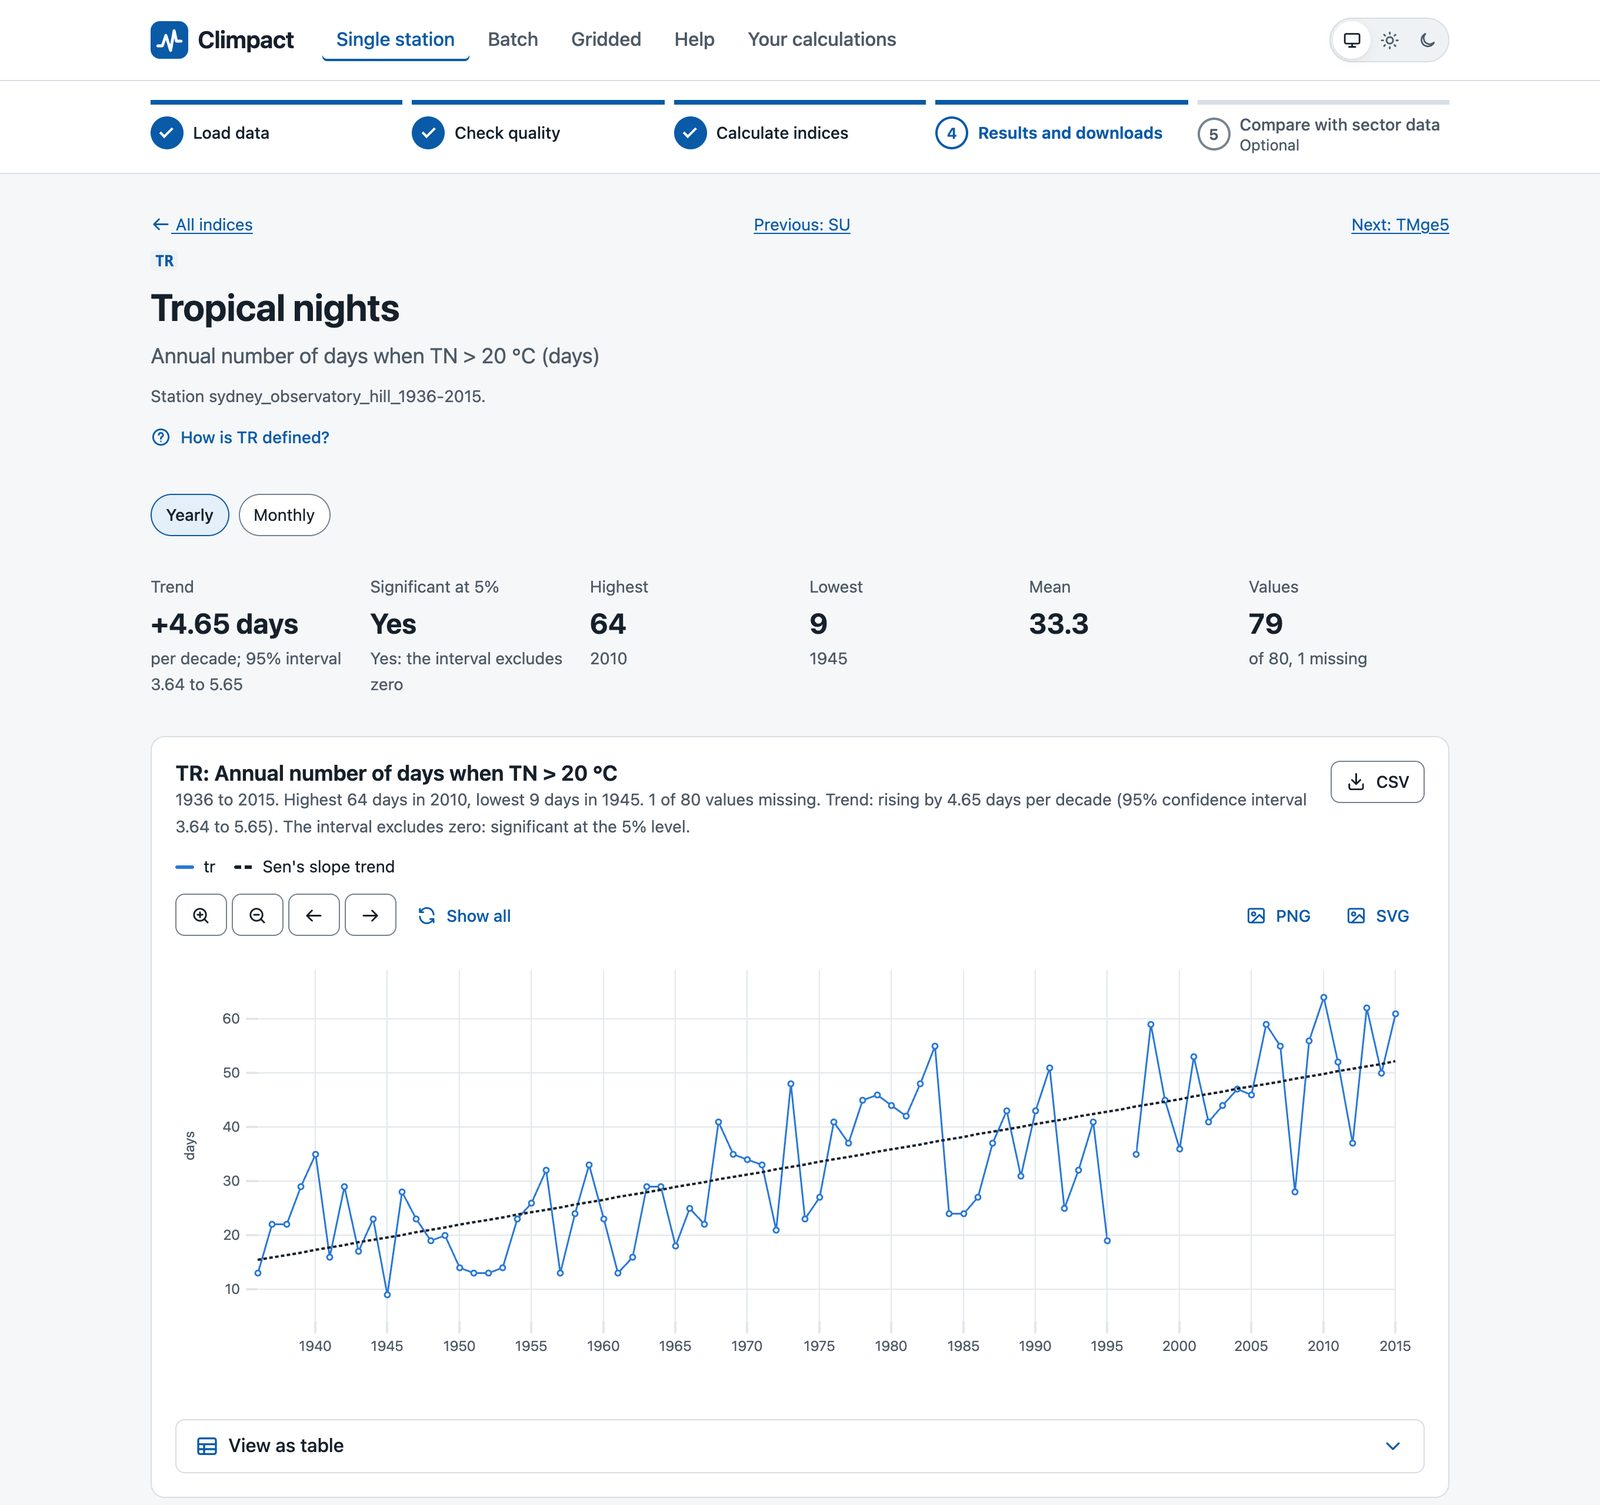
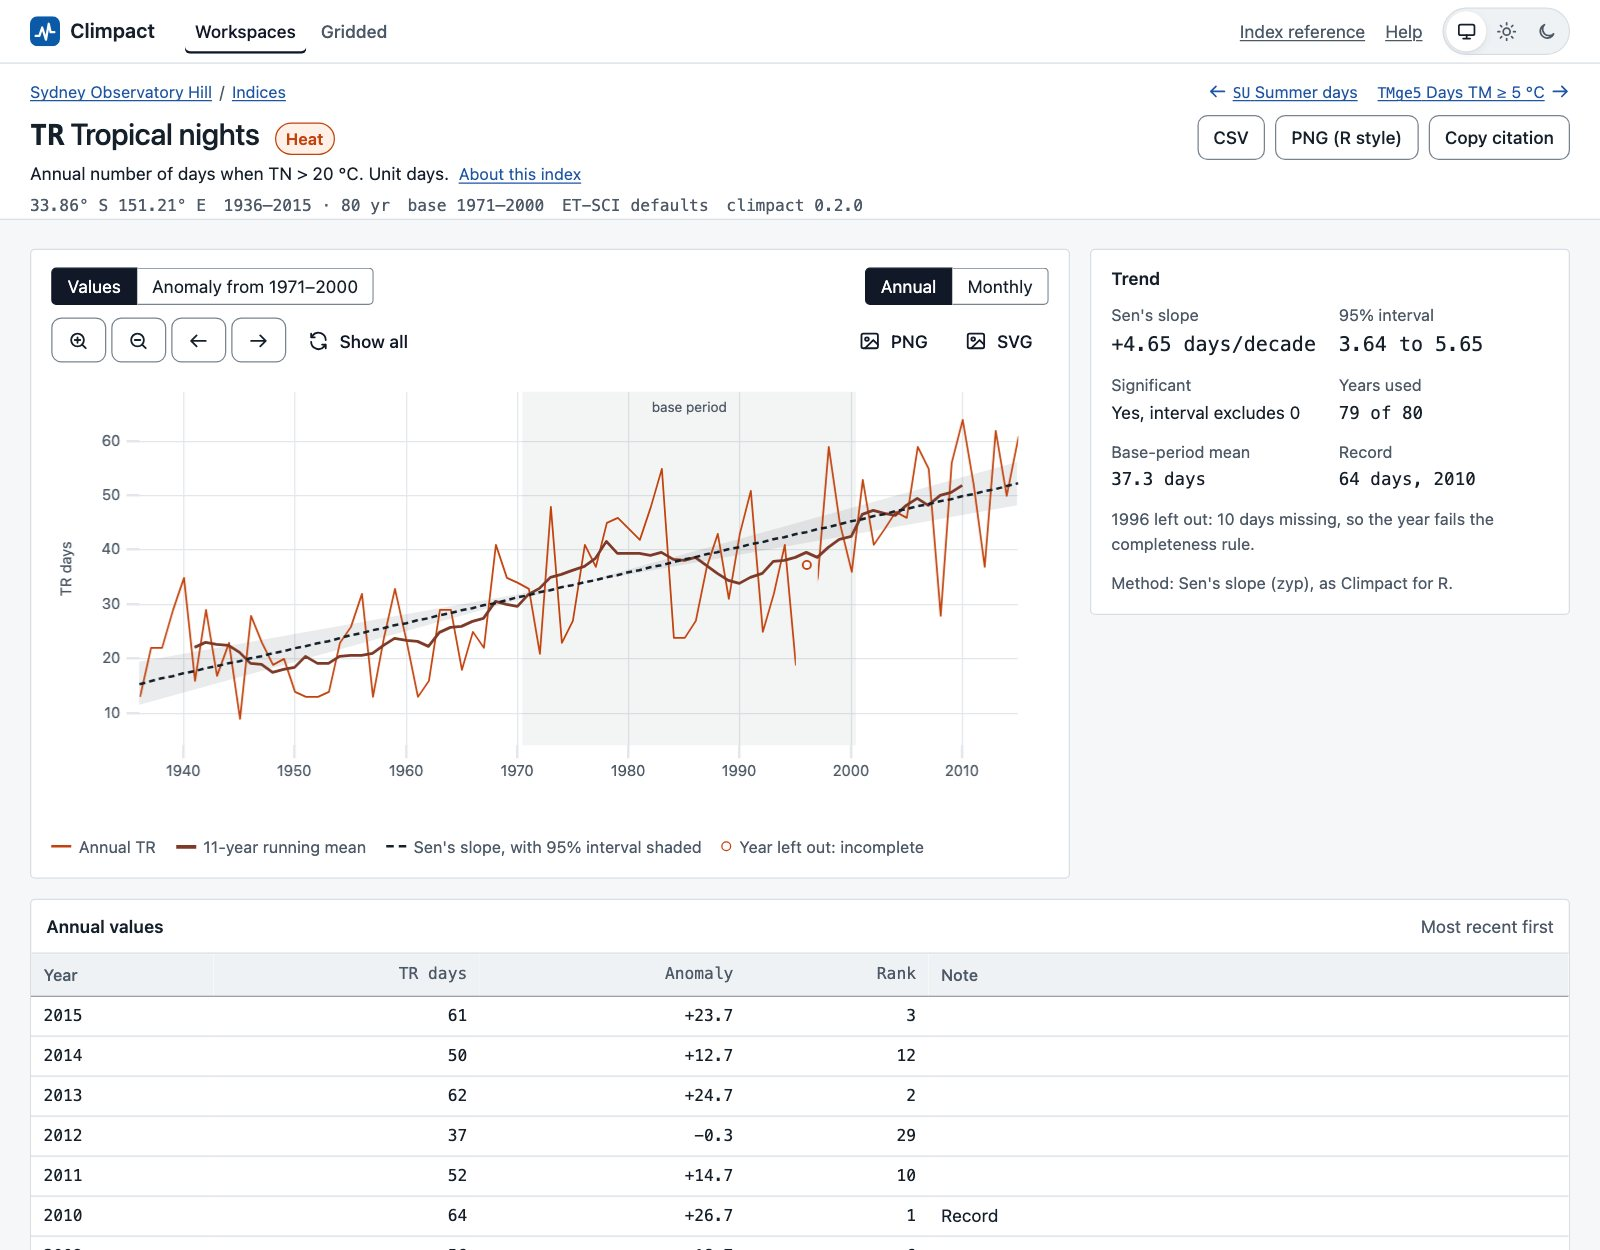
README: describe the 0.2 web app and replace the screenshots (#362)
The README described the 0.1 app (guided steps, "Try with sample data") with
screenshots of pages the redesign replaced. It now describes workspaces, Add
stations, Quality, Indices, comparing stations and the gridded map, with seven
new screenshots taken from a local 0.2.0 run: the sample station, a workspace
of four real Australian stations from the parity suite (Sydney, Alice Springs,
Darwin, Perth) and the sample grid.

The gridded parity figure ("3,006 of 3,006") matched nothing the parity
suite reports; it is now 1,024 of 1,024, the thresholds and index netCDF
variables of the summary. climpact-web's README says workspaces stay until
deleted locally and expire when hosted, and names CLIMPACT_WEB_PUBLIC_URL.

diff --git a/README.md b/README.md
@@ -14,7 +14,7 @@
 
 [**Try it at climpact.app**](https://climpact.app) · [Install](#installing) · [Command line](#command-line) · [Technical notes](TECHNICAL.md) · [Changelog](CHANGELOG.md)
 
-<img src="docs/images/results.jpg" alt="The Climpact results page: significant trends for Sydney Observatory Hill, each with a sparkline" width="860">
+<img src="docs/images/workspace.jpg" alt="A workspace of four Australian stations: each station's quality verdict and number of significant trends, and a grid of their trends per decade for eleven indices, coloured where the trend is significant" width="860">
 
 </div>
 
@@ -27,36 +27,43 @@ Climpact work, and adds a modern web app and a scriptable command line.
 ## Highlights
 
 - **The same results as Climpact for R.** Every output file of 15 reference stations is
-  text-identical to R's (1,791 of 1,791), and every variable of the gridded netCDF outputs is
-  bit-identical (3,006 of 3,006), checked on every pull request. See
-  [Parity testing](TECHNICAL.md#parity-testing).
+  text-identical to R's (1,791 of 1,791), and every variable of R's gridded thresholds and
+  index netCDF files is bit-identical on eight reference grids (1,024 of 1,024), checked on
+  every pull request. See [Parity testing](TECHNICAL.md#parity-testing).
 - **All the indices.** 80 ET-SCI indices per station, including Tx90/Tn90 and EHF heatwaves,
   SPI and SPEI, with quality control, base-period thresholds, Sen's-slope trends and sector
   correlation.
-- **A guided web app.** Load a file, review the quality checks on interactive charts, then
-  calculate and explore every index, with help next to each field. It runs offline on your
-  own computer, or hosted for a team.
+- **A workspace for your stations.** Drop one station file or a whole network, check the
+  quality, read every index's trend, and compare the trends across stations. Settings
+  belong to the workspace, so a change recalculates every station at once. It runs offline
+  on your own computer, or hosted.
 - **Fast and scriptable.** An 80-year station takes about 5 seconds. Batches run one station
   per CPU core, and gridded netCDF data are processed cell by cell in bounded memory.
 - **Files that drop into existing workflows.** CSV files in Climpact R's exact layout, R-style
-  plots, a zip in R's folder structure, and a PDF report for each station.
+  plots, a zip in R's folder structure, a PDF report for each station, all-station CSVs of
+  the indices and trends, and a record of what each result was made from.
 - **Accessible.** Built to WCAG 2.1 AA and tested automatically on every page, with light and dark themes and layouts that
   work on a phone.
 
 ## The web app
 
-Use the hosted app at **[climpact.app](https://climpact.app)** (single stations and batches),
-or run it on your own computer with `climpact-web`, which also processes gridded data and
-needs no internet connection. Each step shows its results before you move on.
+Use the hosted app at **[climpact.app](https://climpact.app)**, or run it on your own computer
+with `climpact-web`, which also processes gridded data and needs no internet connection.
+A workspace holds your stations and their settings; each station has its Quality, Indices
+and Files. Save a workspace to a file to keep it or open it on another computer.
 
 <table>
   <tr>
-    <td width="50%"><img src="docs/images/quality-checks.jpg" alt="Quality checks: flagged values circled on the daily series"><br><sub><b>Check quality.</b> Outliers, jumps, flat runs, impossible values and missing data, flagged on the chart and in tables. Your data is never changed.</sub></td>
-    <td width="50%"><img src="docs/images/index-page.jpg" alt="The page of one index: trend, chart and summary statistics"><br><sub><b>Explore every index.</b> Trend per decade with its 95% interval, an interactive chart, anomalies, seasonal trends and downloads.</sub></td>
+    <td width="50%"><img src="docs/images/add-stations.jpg" alt="Add stations: four station files and a metadata file read into a review table of names, coordinates, periods and missing data"><br><sub><b>Add stations.</b> One file or a whole network, with a metadata file or a zip. Check the names and coordinates in a table before anything runs.</sub></td>
+    <td width="50%"><img src="docs/images/quality.jpg" alt="Quality for Sydney Observatory Hill: the verdict Usable, the coverage of each variable by year, and the checks listed with the one selected shown on a chart"><br><sub><b>Check quality.</b> A verdict (Ready, Usable, Fix first), coverage by year, and each check's flagged values on a chart and in a table. Your data is never changed.</sub></td>
   </tr>
   <tr>
-    <td width="50%"><img src="docs/images/gridded-map.jpg" alt="Gridded results: a map of an index and the time series of one cell"><br><sub><b>Gridded data.</b> One netCDF file per index, a map of any index and year, and the time series of any cell.</sub></td>
-    <td width="50%"><img src="docs/images/dark-theme.jpg" alt="An index page in the dark theme"><br><sub><b>Light and dark themes,</b> keyboard-navigable charts with text summaries and table views.</sub></td>
+    <td width="50%"><img src="docs/images/indices.jpg" alt="Indices for Sydney Observatory Hill: 80 indices in a table sorted by the size of their trend, with themes on the left and the selected index's chart on the right"><br><sub><b>Every index at a glance.</b> 80 indices with their trend per decade, 95% interval and a sparkline, filtered by theme, with the selected one beside the table.</sub></td>
+    <td width="50%"><img src="docs/images/index-page.jpg" alt="The TR Tropical nights page: annual values from 1936 to 2015 with the running mean and Sen's slope, the trend's statistics and the annual values table"><br><sub><b>Explore an index.</b> An interactive chart with the base period, running mean and Sen's slope, anomalies, monthly values, the trend's statistics and downloads.</sub></td>
+  </tr>
+  <tr>
+    <td width="50%"><img src="docs/images/overlay-dark.jpg" alt="TXx Hottest day at each of the four stations on one chart, in the dark theme"><br><sub><b>Compare stations.</b> A trend grid across the workspace, and one index's series at every station. Light and dark themes throughout.</sub></td>
+    <td width="50%"><img src="docs/images/gridded-map.jpg" alt="A gridded run's map of TXx in 2010 on the sample grid, with the index list on the left and the selected cell's series and trend on the right"><br><sub><b>Gridded data.</b> A map of any index and year, its base-period mean, anomaly or trend, and the series of any cell or of the whole grid.</sub></td>
   </tr>
 </table>
 
@@ -80,8 +87,9 @@ Start the web app; it opens in your browser:
 climpact-web                      # options: --no-browser, --port, --host, --data-dir
 ```
 
-Press **Try with sample data** to walk through a full run with Climpact's Sydney Observatory
-Hill record.
+Press **See an example** to open Climpact's Sydney Observatory Hill record, already checked
+and calculated, or **Get started** to add your own stations. **Help** has a guide to each
+page, a page per index, the file formats and the command line.
 
 ## Command line
 
@@ -103,6 +111,8 @@ climpact sector-correlation station.txt wheat_yield.csv --out outputs
 # Gridded netCDF data: base-period thresholds, then every index of every cell
 climpact gridded-thresholds tasmax.nc tasmin.nc pr.nc --out thresholds.nc
 climpact gridded-indices tasmax.nc tasmin.nc pr.nc --out indices/ --workers 4
+# ...and trends.nc: each cell's Sen's slope per decade, its 95% interval and base-period mean
+climpact gridded-indices tasmax.nc tasmin.nc pr.nc --out indices/ --trends
 # A variable split by year: give its files, or a quoted pattern; they are joined along time
 climpact gridded-indices 'tasmax_day_*.nc' 'tasmin_day_*.nc' 'pr_day_*.nc' --out indices/
 ```

diff --git a/packages/climpact-web/README.md b/packages/climpact-web/README.md
@@ -3,8 +3,9 @@
 The browser app for [Climpact for Python](https://pypi.org/project/climpact/) (the
 `climpact` package, a Python port of the R
 [Climpact](https://github.com/ARCCSS-extremes/climpact)): calculate the indices of daily
-climate extremes for a station, a batch of stations or gridded data, check the data
-quality and download the results, plots and report. A Django + htmx app. It depends on
+climate extremes for a workspace of stations (one or a whole network) or for gridded data,
+check the data quality, compare the trends across stations and download the results, plots
+and report. A Django + htmx app. It depends on
 `climpact` at exactly the same version; the core never imports it.
 
 ## Running it on your computer
@@ -22,8 +23,10 @@ Python 3.12 or later. In a checkout of the
 migrations, starts a background worker for the calculations, serves the app on
 http://127.0.0.1:8000/ and opens it in the browser. It needs no network connection.
 Options: `--no-browser`, `--port`, `--host`, `--data-dir`, `--threads`, `--no-worker`;
-`climpact-web manage <command>` runs a Django management command. Uploads and results are
-deleted after 7 days (`CLIMPACT_WEB_RETENTION_DAYS`). With `CLIMPACT_WEB_DEBUG=true` (or
+`climpact-web manage <command>` runs a Django management command. On your computer a
+workspace and a gridded run stay until you delete them; hosted, a workspace is deleted 7
+days after its last change (`CLIMPACT_WEB_RETENTION_DAYS`, `CLIMPACT_WEB_WORKSPACE_EXPIRY`),
+so save it to a workspace file to keep it. With `CLIMPACT_WEB_DEBUG=true` (or
 `CLIMPACT_WEB_PATTERN_LIBRARY=true`) the pattern library at `/patterns/` shows every UI
 component.
 
@@ -48,7 +51,8 @@ templates; repeated pieces, and classes built in Python or JavaScript, are compo
 ## Hosted mode
 
 Set `CLIMPACT_WEB_MODE=hosted`, `CLIMPACT_WEB_SECRET_KEY`, `CLIMPACT_WEB_ALLOWED_HOSTS`,
-`CLIMPACT_WEB_STATIC_ROOT` and `DATABASE_URL` (Postgres: install the `postgres` extra),
+`CLIMPACT_WEB_STATIC_ROOT`, `CLIMPACT_WEB_PUBLIC_URL` (the site's address, for the help's
+canonical links and sitemap) and `DATABASE_URL` (Postgres: install the `postgres` extra),
 run `climpact-web manage migrate` and `climpact-web manage collectstatic`, and serve
 `climpact_web.wsgi:application`. Run one or more `climpact-web manage runworker`
 processes for the background jobs. The health check is `/healthz`.
